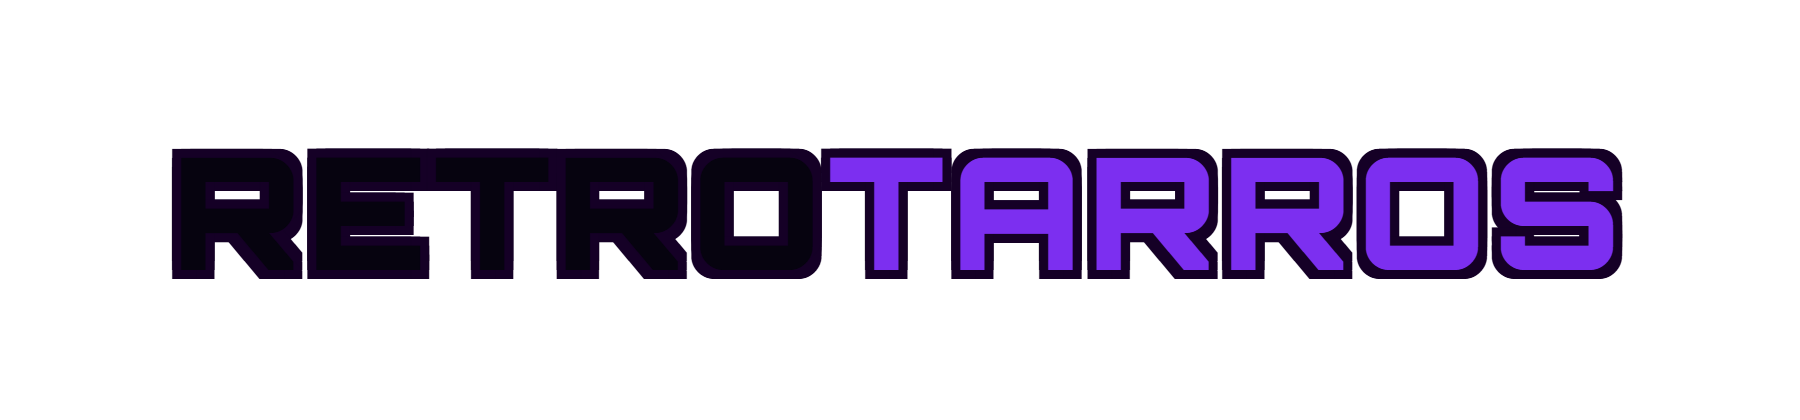
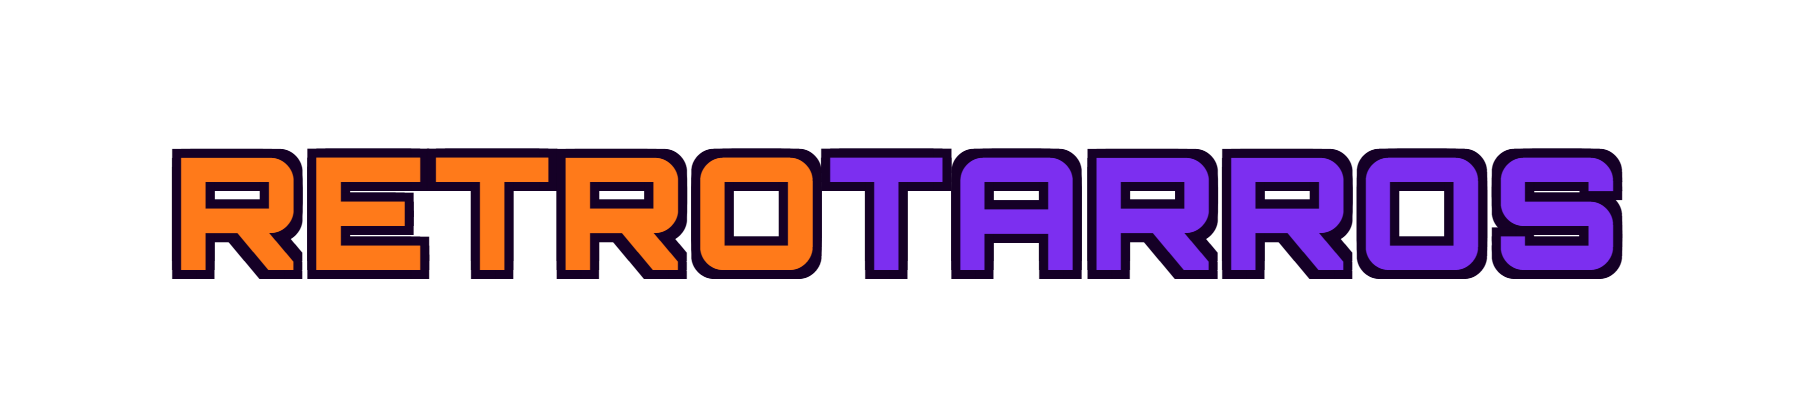
feat(merch): pecho-wordmark RETRO naranja + TARROS morado (combo A, ambas telas)
Eleccion de Luis. Clase .ny: naranja #FF7A1A + morado, fijo en negra y blanca,
con contorno chrome. Legible en ambas.

Changed region(s): [[0.0933, 0.3714, 0.4667, 0.65]]

diff --git a/scripts/merch_poleras.py b/scripts/merch_poleras.py
@@ -90,6 +90,9 @@ def _css(variant: str) -> str:
 .wm.nc{{color:{nc_retro}}}
 .wm.nc b{{color:{nc_tarros}}}
 .tag.nc{{color:{nc_tag};text-shadow:{ol}{nctag_glow};}}
+/* .ny = RETRO naranja + TARROS morado, FIJO en ambas telas (eleccion de Luis) */
+.wm.ny{{color:#FF7A1A;text-shadow:{ol}{', 0 0 16px rgba(124,47,240,.5)' if glow else ''};}}
+.wm.ny b{{color:{PU}}}
 .px{{font-family:'Press Start 2P';z-index:2;line-height:1}}
 """
 
@@ -111,7 +114,7 @@ def pecho_mascota(v: str) -> str:
 
 def pecho_wordmark(v: str) -> str:
     return ('<div class="stage" style="width:600px;height:140px">'
-            '<div class="wm nc" style="font-size:52px;letter-spacing:2px;white-space:nowrap">RETRO<b>TARROS</b></div>'
+            '<div class="wm ny" style="font-size:52px;letter-spacing:2px;white-space:nowrap">RETRO<b>TARROS</b></div>'
             '</div>')
 
 